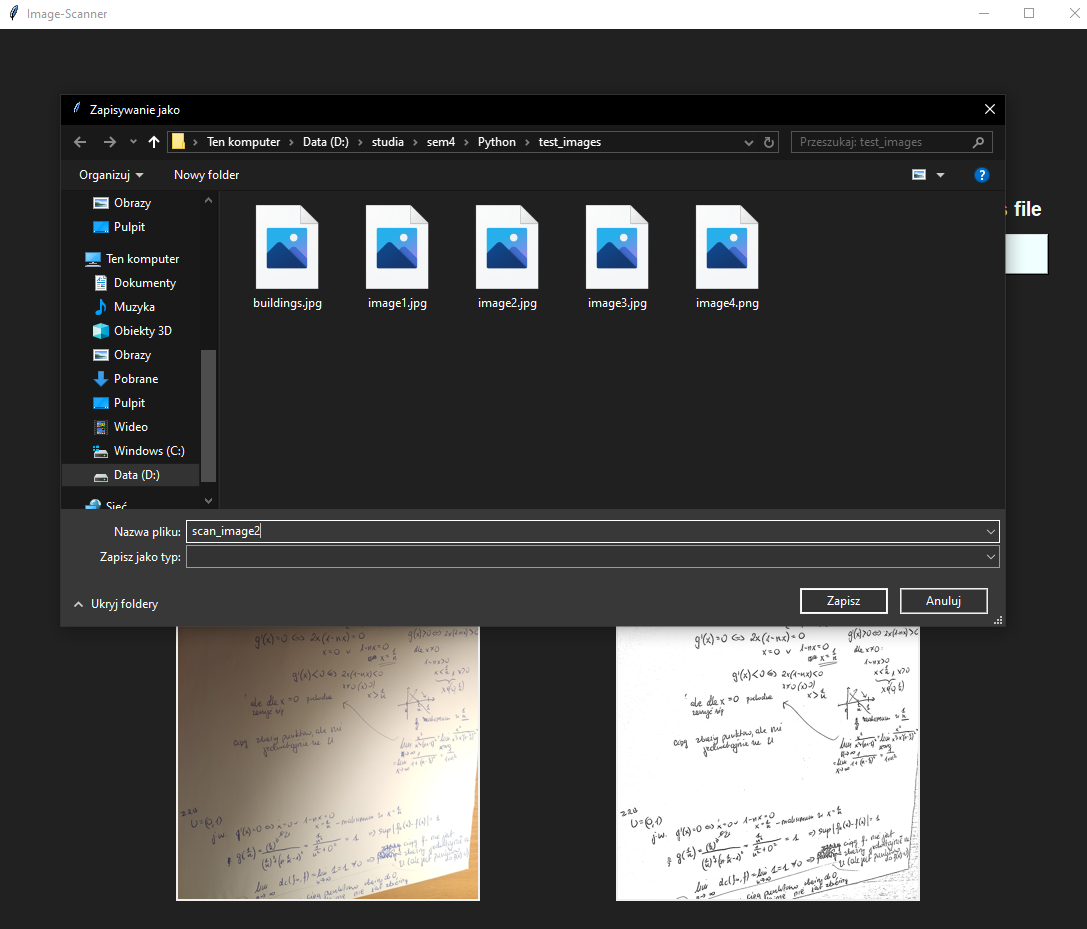
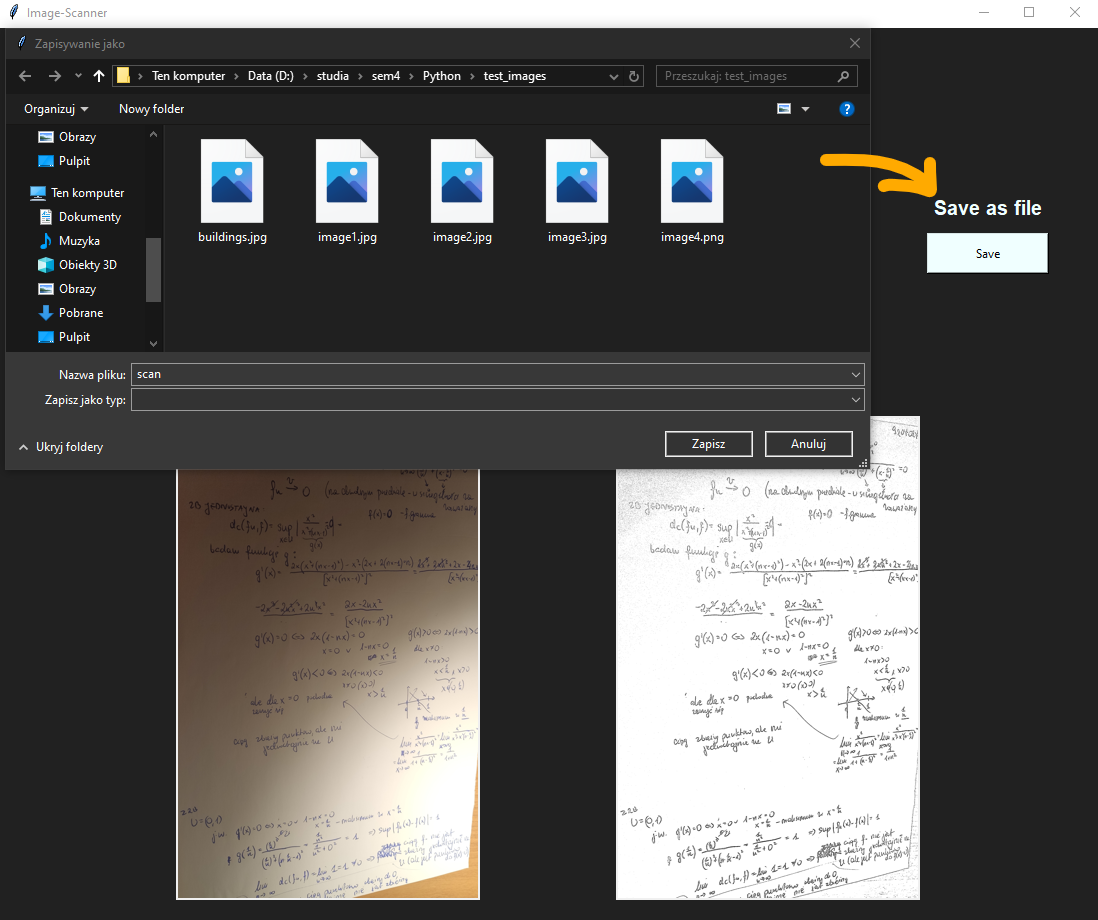
usage description

Changed region(s): [[0.0, 0.0, 0.9715, 1.0], [0.2125, 0.7913, 0.3036, 0.8217]]

diff --git a/README.md b/README.md
@@ -12,7 +12,20 @@ bimodal distribution).
 ![](https://github.com/sy1wi4/Image-Scanner/blob/master/utils/usage.gif)
 
 #### Scan uneven ligting image
-You can change size of neighbourhood area using slider
+You can change size of neighbourhood area using slider.
 
 <img src="https://github.com/sy1wi4/Image-Scanner/blob/master/utils/scan_adaptive_7.png" width="350" hspace="30"/> <img src="https://github.com/sy1wi4/Image-Scanner/blob/master/utils/scan_adaptive_109.png" width="350"/>
 
+As mentioned above, the Otsu's method is not doing well in this case.
+
+<img src="https://github.com/sy1wi4/Image-Scanner/blob/master/utils/scan_otsu.png" width="450" hspace="30"/>
+
+#### Scan bimodal image
+To scan bimodal image Otsu method is more suitable.
+
+<img src="https://github.com/sy1wi4/Image-Scanner/blob/master/utils/scan_bimodal_adaptive.png" width="350" hspace="30"/> <img src="https://github.com/sy1wi4/Image-Scanner/blob/master/utils/scan_bimodal_otsu.png" width="350"/>
+
+#### Save result file
+You can save scanned image on your computer (e.g. for printing).
+
+<img src="https://github.com/sy1wi4/Image-Scanner/blob/master/utils/save.png" width="450" hspace="30"/>
